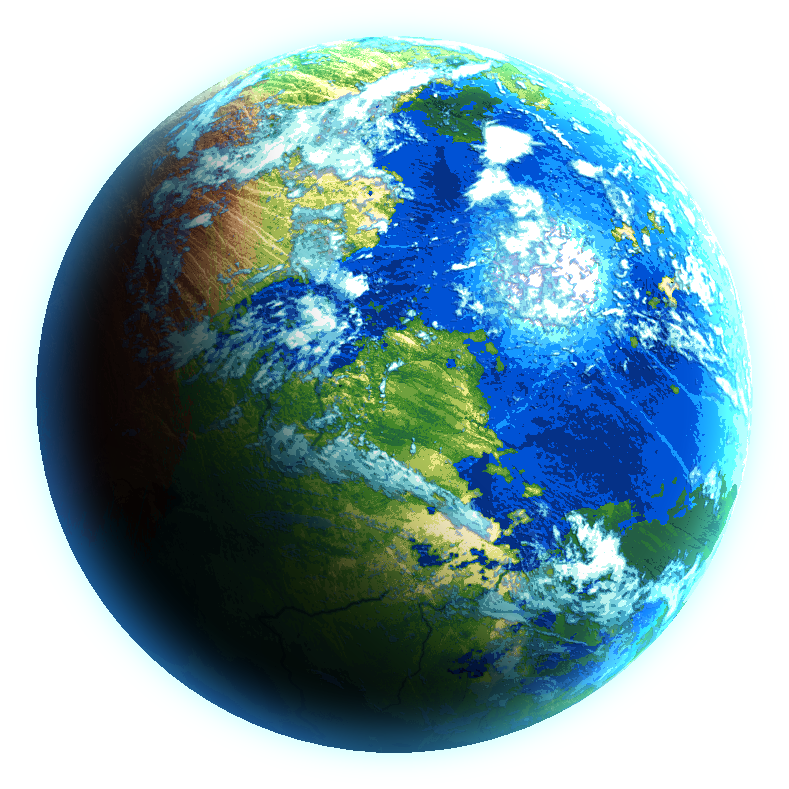
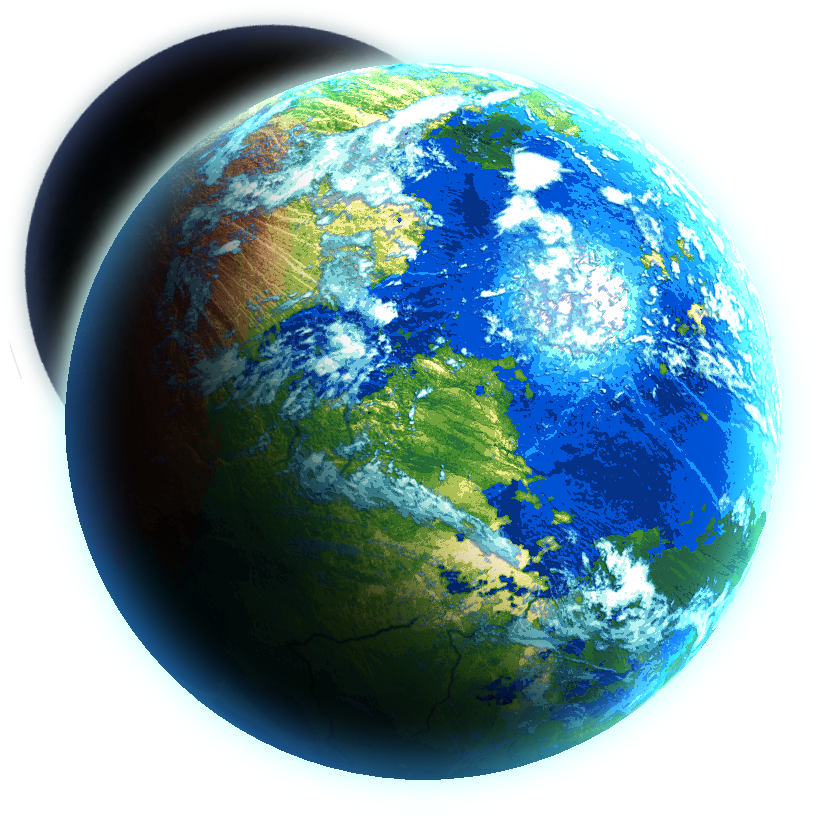
liden!?!!?!?

diff --git a/Backgrounds/SpaceBgStyle.cs b/Backgrounds/SpaceBgStyle.cs
@@ -47,6 +47,47 @@ namespace Redemption.Backgrounds
         }
         public override bool PreDrawCloseBackground(SpriteBatch spriteBatch)
         {
+            float centerDist = 0;
+            if (!Main.dayTime)
+            {
+                if (Main.time < 16200)
+                    centerDist = MathHelper.Distance((float)Main.time, 0) * 6;
+                else
+                    centerDist = MathHelper.Distance((float)Main.time, 32400) * 6;
+                centerDist /= 16200;
+            }
+
+            float c = 450f;
+            float d = 100f;
+            float bgParallax2 = 0.37f + 0.2f - 0.1f;
+            int textureSlot2 = BackgroundTextureLoader.GetBackgroundSlot("Redemption/Backgrounds/EpidotraPlanet");
+            int textureSlot2_Brighter = BackgroundTextureLoader.GetBackgroundSlot("Redemption/Backgrounds/EpidotraPlanet_Brighter");
+            Main.instance.LoadBackground(textureSlot2);
+            Main.instance.LoadBackground(textureSlot2_Brighter);
+            float bgScale2 = 2f;
+            float screenOff2 = typeof(Main).GetFieldValue<float>("screenOff", Main.instance);
+            int bgW2 = (int)(Main.backgroundWidth[textureSlot2] * bgScale2);
+            SkyManager.Instance.DrawToDepth(spriteBatch, 1f / bgParallax2);
+            int bgStart2 = (int)(-Math.IEEERemainder(Main.screenPosition.X / 40 * bgParallax2, bgW2) - (bgW2 / 3));
+            int bgTop2 = (int)((-Main.screenPosition.Y + screenOff2 / 2f) / (Main.worldSurface * 16.0) * c + d);
+            if (Main.gameMenu)
+            {
+                bgTop2 = 320;
+            }
+            Color backColor2 = typeof(Main).GetFieldValue<Color>("ColorOfSurfaceBackgroundsModified", Main.instance);
+            if (Main.screenPosition.Y < Main.worldSurface * 16.0 + 16.0)
+            {
+                spriteBatch.Draw(TextureAssets.Background[textureSlot2].Value,
+                    new Vector2(bgStart2 + bgW2, bgTop2),
+                    new Rectangle(0, 0, Main.backgroundWidth[textureSlot2], Main.backgroundHeight[textureSlot2]),
+                    backColor2 * (centerDist + 1), 0f, default, bgScale2, SpriteEffects.None, 0f);
+
+                spriteBatch.Draw(TextureAssets.Background[textureSlot2_Brighter].Value,
+                    new Vector2(bgStart2 + bgW2, bgTop2),
+                    new Rectangle(0, 0, Main.backgroundWidth[textureSlot2], Main.backgroundHeight[textureSlot2]),
+                    backColor2 * (centerDist + 1) * 1.1f, 0f, default, bgScale2, SpriteEffects.None, 0f);
+            }
+
             float a = 4000f;
             float b = 3000f;
             int[] textureSlots = new int[] {
@@ -81,30 +122,6 @@ namespace Redemption.Backgrounds
                             backColor, 0f, default, bgScale, SpriteEffects.None, 0f);
                     }
                 }
-            }
-            float c = 150f;
-            float d = 100f;
-            float bgParallax2 = 0.37f + 0.2f - 0.1f;
-            int textureSlot2 = BackgroundTextureLoader.GetBackgroundSlot("Redemption/Backgrounds/EpidotraPlanet");
-            Main.instance.LoadBackground(textureSlot2);
-            float bgScale2 = 2f;
-            float screenOff2 = typeof(Main).GetFieldValue<float>("screenOff", Main.instance);
-            float scAdj2 = typeof(Main).GetFieldValue<float>("scAdj", Main.instance);
-            int bgW2 = (int)(Main.backgroundWidth[textureSlot2] * bgScale2);
-            SkyManager.Instance.DrawToDepth(spriteBatch, 1f / bgParallax2);
-            int bgStart2 = (int)(-Math.IEEERemainder(Main.screenPosition.X / 40 * bgParallax2, bgW2) - (bgW2 / 2));
-            int bgTop2 = (int)((-Main.screenPosition.Y + screenOff2 / 2f) / (Main.worldSurface * 16.0) * c + d);
-            if (Main.gameMenu)
-            {
-                bgTop2 = 320;
-            }
-            Color backColor2 = typeof(Main).GetFieldValue<Color>("ColorOfSurfaceBackgroundsModified", Main.instance);
-            if (Main.screenPosition.Y < Main.worldSurface * 16.0 + 16.0)
-            {
-                spriteBatch.Draw(TextureAssets.Background[textureSlot2].Value,
-                    new Vector2(bgStart2 + bgW2, bgTop2),
-                    new Rectangle(0, 0, Main.backgroundWidth[textureSlot2], Main.backgroundHeight[textureSlot2]),
-                    backColor2 * 4f, 0f, default, bgScale2, SpriteEffects.None, 0f);
             }
             return false;
         }

diff --git a/Globals/Player/RedePlayer.cs b/Globals/Player/RedePlayer.cs
@@ -19,6 +19,9 @@ using Redemption.WorldGeneration.Soulless;
 using Terraria.Audio;
 using ReLogic.Utilities;
 using Terraria.ID;
+using Redemption.Walls;
+using Redemption.Base;
+using Redemption.Items.Accessories.HM;
 
 namespace Redemption.Globals.Player
 {
@@ -35,6 +38,7 @@ namespace Redemption.Globals.Player
         public bool stalkerSilence;
         public float musicVolume;
         public int slayerStarRating;
+        public int SpaceBreathTimer = 0;
         public override void ResetEffects()
         {
             hitTarget = -1;
@@ -81,9 +85,27 @@ namespace Redemption.Globals.Player
                 "===============", 244, 71, 255);
         }
 
+        public string GetSpaceDeathQuote()
+        {
+            string[] SpaceDeathQuotes = new string[]
+            {
+                " was eaten by space",
+                " burned while freezing",
+                " forgot they needed to breathe",
+                " was trapped in orbit",
+                " took the wrong step for mankind",
+                " wanted to be a satellite",
+                " boldly went where no man has gone before",
+                " thought the sky was the limit",
+                " needed some space"
+            };
+            int randomQuote = Main.rand.Next(SpaceDeathQuotes.Length);
+
+            return Player.name + SpaceDeathQuotes[randomQuote];
+        }
         public override void PreUpdate()
         {
-            if (Player.position.Y >= 16210 && Player.InModBiome<SpaceBiome>())
+            if (Player.position.Y >= 16210 && Player.InModBiome<SpaceBiome>() && Player.whoAmI == Main.myPlayer)
             {
                 int damage = 8;
                 Player.AddBuff(BuffID.Obstructed, 3);
@@ -93,9 +115,37 @@ namespace Redemption.Globals.Player
                     Player.KillMe(PlayerDeathReason.ByCustomReason(Player.name + " fell into deep space..."), 10, 0, false);
             }
 
-            if (Player.InModBiome<SpaceBiome>())
+            if (Player.InModBiome<SpaceBiome>() && Player.whoAmI == Main.myPlayer)
             {
-                Player.gravity /= 5;
+                Point point = Player.Center.ToTileCoordinates();
+                ushort wallType = Framing.GetTileSafely(point.X, point.Y).WallType;
+                if (wallType != ModContent.WallType<SlayerShipPanelWallTile>() && wallType != WallID.MartianConduit && wallType != WallID.Glass)
+                {
+                    Player.gravity /= 20;
+                    Player.breath -= 3;
+                    int airCD = 1;
+                    if (Player.accDivingHelm || BasePlayer.HasAccessory(Player, ModContent.ItemType<GasMask>(), true, true) || Player.RedemptionPlayerBuff().hazmatSuit || Player.RedemptionPlayerBuff().HEVSuit)
+                        airCD = 2;
+                    if (++SpaceBreathTimer % airCD == 0)
+                    {
+                        SpaceBreathTimer = 0;
+                        Player.breath--;
+                    }
+                    if (Player.breath < -5)
+                    {
+                        Player.lifeRegen = 0;
+                        Player.lifeRegenTime = 0;
+                        Player.breath = -5;
+                        Player.statLife -= 2;
+                        NetMessage.SendData(MessageID.SpiritHeal, -1, -1, null, Player.whoAmI, -2, 0f, 0f, 0, 0, 0);
+                        if (Player.statLife <= 0)
+                        {
+                            Player.statLife = 0;
+                            PlayerDeathReason damageSource = PlayerDeathReason.ByCustomReason(GetSpaceDeathQuote());
+                            Player.KillMe(damageSource, 10.0, 0);
+                        }
+                    }
+                }
                 Player.accDepthMeter = 0;
             }
         }

diff --git a/Items/Usable/Potions/DeepDwellDish.cs b/Items/Usable/Potions/DeepDwellDish.cs
@@ -1,6 +1,9 @@
+using Microsoft.Xna.Framework;
+using Redemption.Buffs;
 using Redemption.Items.Materials.PostML;
 using Redemption.Rarities;
 using Terraria;
+using Terraria.DataStructures;
 using Terraria.GameContent.Creative;
 using Terraria.ID;
 using Terraria.ModLoader;
@@ -12,25 +15,22 @@ namespace Redemption.Items.Usable.Potions
         public override void SetStaticDefaults()
         {
             DisplayName.SetDefault("Deep Dwell Dish");
-            Tooltip.SetDefault("Major improvements to all stats" +
+            Tooltip.SetDefault("Massive improvements to all stats" +
                 "\n'Tastes like [REDACTED]'");
+            Main.RegisterItemAnimation(Type, new DrawAnimationVertical(int.MaxValue, 3));
+            ItemID.Sets.FoodParticleColors[Item.type] = new Color[3] {
+                new Color(229, 124, 206),
+                new Color(103, 84, 119),
+                new Color(120, 146, 19)
+            };
+            ItemID.Sets.IsFood[Type] = true;
             CreativeItemSacrificesCatalog.Instance.SacrificeCountNeededByItemId[Type] = 5;
         }
         public override void SetDefaults()
         {
-            Item.UseSound = SoundID.Item2;
-            Item.useStyle = ItemUseStyleID.EatFood;
-            Item.useTurn = true;
-            Item.useAnimation = 30;
-            Item.useTime = 30;
-            Item.maxStack = 30;
-            Item.consumable = true;
-            Item.width = 32;
-            Item.height = 20;
-            Item.value = Item.sellPrice(0, 0, 25, 0);
+            Item.DefaultToFood(36, 22, ModContent.BuffType<WellFed4>(), 6000);
+            Item.value = 55;
             Item.rare = ModContent.RarityType<SoullessRarity>();
-            Item.buffType = BuffID.WellFed3;
-            Item.buffTime = 24400;
         }
         public override void AddRecipes()
         {

diff --git a/Globals/RedeWorld.cs b/Globals/RedeWorld.cs
@@ -59,7 +59,7 @@ namespace Redemption.Globals
                 Main.maxRaining = 0f;
                 Main.slimeRain = false;
                 if (!CreativePowerManager.Instance.GetPower<CreativePowers.FreezeTime>().Enabled)
-                    Main.time += Main.dayRate + (CreativePowerManager.Instance.GetPower<CreativePowers.ModifyTimeRate>().TargetTimeRate - 1);
+                    Main.time += Main.dayRate + 0.5f + (CreativePowerManager.Instance.GetPower<CreativePowers.ModifyTimeRate>().TargetTimeRate - 1);
                 if (Main.time >= (Main.dayTime ? 54000 : 32400))
                 {
                     Main.dayTime = !Main.dayTime;

diff --git a/Redemption.cs b/Redemption.cs
@@ -124,6 +124,8 @@ namespace Redemption
                     PremultiplyTexture(ref SpaceBG1Tex);
                     Texture2D EpidotraPlanetTex = ModContent.Request<Texture2D>("Redemption/Backgrounds/EpidotraPlanet", AssetRequestMode.ImmediateLoad).Value;
                     PremultiplyTexture(ref EpidotraPlanetTex);
+                    Texture2D EpidotraPlanet_BrighterTex = ModContent.Request<Texture2D>("Redemption/Backgrounds/EpidotraPlanet_Brighter", AssetRequestMode.ImmediateLoad).Value;
+                    PremultiplyTexture(ref EpidotraPlanet_BrighterTex);
                 });
             }
 

diff --git a/Globals/Player/BuffPlayer.cs b/Globals/Player/BuffPlayer.cs
@@ -616,7 +616,6 @@ namespace Redemption.Globals.Player
             if (MetalSet)
                 SoundEngine.PlaySound(SoundID.NPCHit4, Player.position);
         }
-
         public override bool PreKill(double damage, int hitDirection, bool pvp, ref bool playSound, ref bool genGore, ref PlayerDeathReason damageSource)
         {
             if (infested && infestedTime >= 60)
